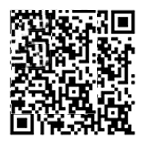
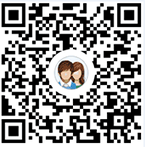
QQ群

diff --git a/js/foot.js b/js/foot.js
@@ -2,9 +2,11 @@
     $(".showtip1").popover({
         trigger: 'manual',
         placement: 'top',
-        title: '<div style="text-align:center; color:red; text-decoration:underline; font-size:12px;"> 点击或扫描二维码<br>联系我们</div>',
+        title: '<div style="text-align:center; color:red; text-decoration:underline; font-size:12px;"> 群名称：关务云客户服务<br>群账号：526451858</div>',
         html: 'true', //needed to show html of course
-        content: '<div id="popOverBox" align="center"><img src="/Images/float/qq.jpg" /></div>',
+        content: '<div id="popOverBox" align="center"> <a target="_blank" href="//shang.qq.com/wpa/qunwpa?idkey=e1d4f03a3e46e7343bc450b824aa98bfcdea1c3ea87de3784c7b0573c430b9cf">'
+                  +'<img border="0" src="/Images/float/erweima.png" alt="关务云客户服务" title="关务云客户服务">'
+                + '</a></div>',
         animation: false
     }).on("mouseenter", function () {
         var _this = this;
